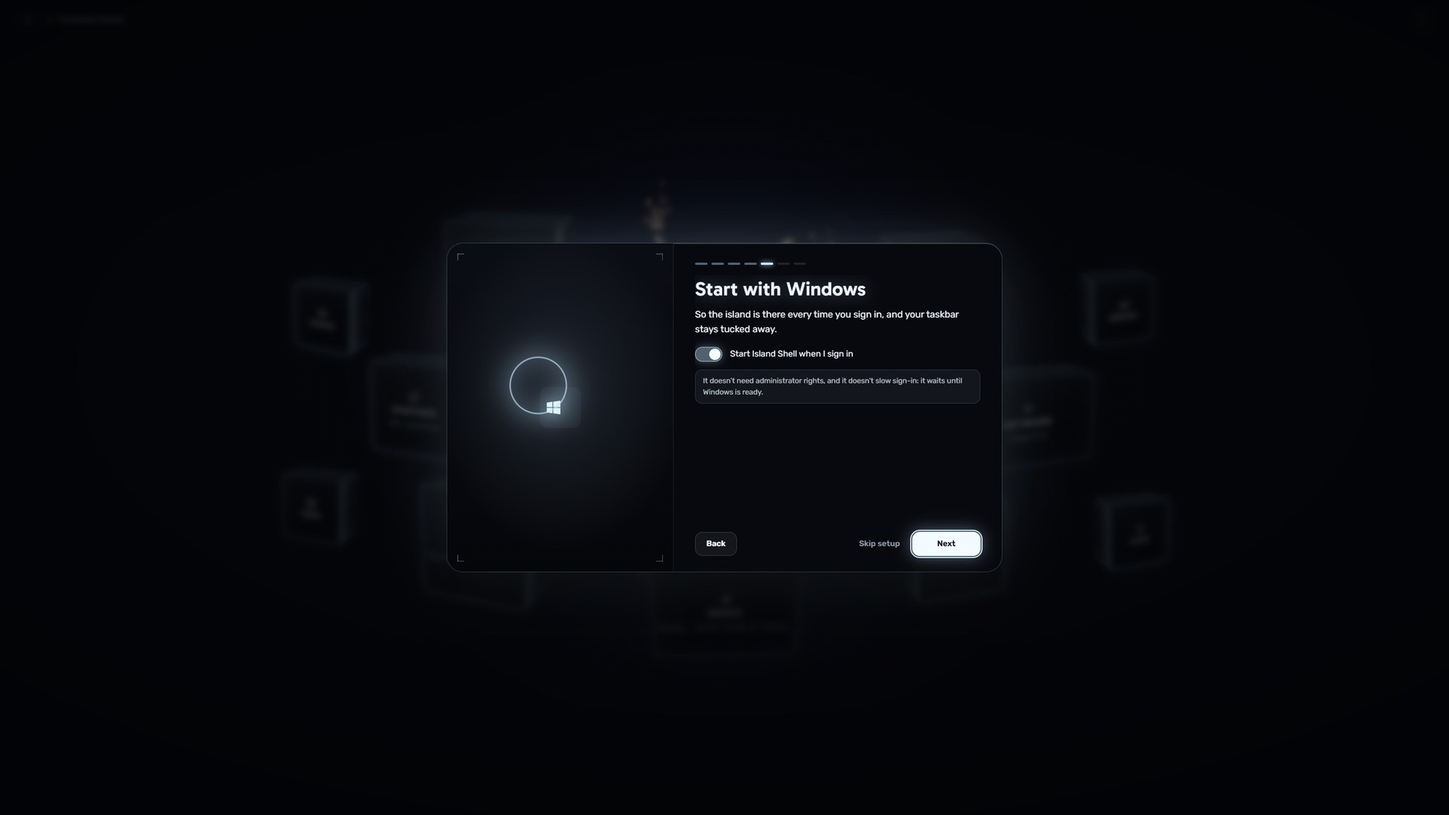
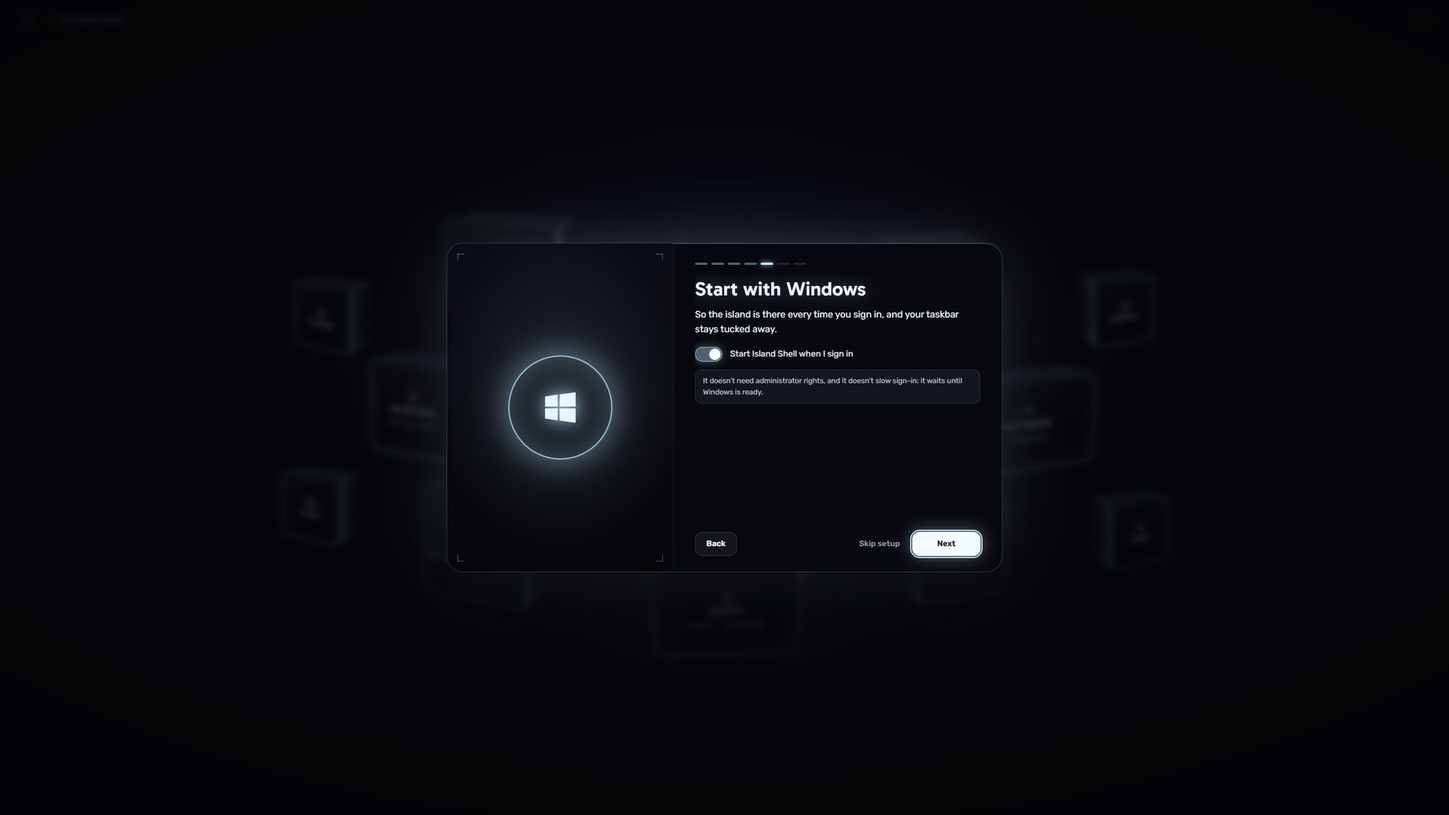
Setup guide: Windows key caps, tip rows and the ring drew wrong
Its classes clashed with the island's own (.win, .ring, .pill, .bar, .tabs,
.cover…): the Windows logo took the running-window row's size and the ring the
Stats gauge's. Every class inside the guide is now su- prefixed, and each tip is
two cells so keys inside a sentence stay inline. Screenshots retaken.

Changed region(s): [[0.3438, 0.4278, 0.4375, 0.5806], [0.4375, 0.2444, 0.4688, 0.275]]

diff --git a/src/cc.css b/src/cc.css
@@ -606,7 +606,7 @@ textarea.cal-in { height: auto; padding: 10px 12px; line-height: 1.45; resize: v
 /* ---------- first-run setup guide (setup.js) ---------- */
 .su-wrap { position: absolute; inset: 0; z-index: 30; display: grid; place-items: center; padding: 24px; background: radial-gradient(70% 60% at 50% 45%, rgba(5, 6, 10, .55), rgba(2, 3, 5, .92)); backdrop-filter: blur(6px); animation: su-in .45s ease; }
 .su-wrap[hidden] { display: none; }
-.su-wrap.out { animation: su-out .26s ease forwards; }
+.su-wrap.su-out { animation: su-out .26s ease forwards; }
 @keyframes su-in { from { opacity: 0; } }
 @keyframes su-out { to { opacity: 0; } }
 .su-card-main { width: min(980px, 100%); min-height: min(580px, 92vh); display: grid; grid-template-columns: minmax(0, 400px) minmax(0, 1fr); border-radius: 28px; overflow: hidden; background: #08090e; box-shadow: 0 0 0 1px rgba(var(--glow), .2), inset 0 1px 0 rgba(var(--glow), .25), 0 60px 140px -40px rgba(0, 0, 0, .95), 0 0 120px -40px rgba(var(--glow), .45); animation: su-card .55s var(--spring); }
@@ -616,19 +616,20 @@ textarea.cal-in { height: auto; padding: 10px 12px; line-height: 1.45; resize: v
 .su-body { display: grid; grid-template-rows: auto minmax(0, 1fr) auto; gap: 18px; padding: 34px 38px 28px; }
 .su-dots { display: flex; gap: 7px; }
 .su-dots i { width: 22px; height: 4px; border-radius: 2px; background: rgba(255, 255, 255, .1); transition: background .3s, box-shadow .3s; }
-.su-dots i.past { background: rgba(var(--glow), .4); }
-.su-dots i.on { background: #c9e9ff; box-shadow: 0 0 10px rgba(var(--glow), .9); }
+.su-dots i.su-past { background: rgba(var(--glow), .4); }
+.su-dots i.su-on { background: #c9e9ff; box-shadow: 0 0 10px rgba(var(--glow), .9); }
 .su-text { min-height: 0; overflow-y: auto; animation: su-text .4s ease; scrollbar-width: thin; }
 @keyframes su-text { from { opacity: 0; transform: translateX(10px); } }
 .su-text h2 { margin: 6px 0 14px; font: 600 34px/1.1 var(--f-display); letter-spacing: .01em; text-shadow: 0 0 30px rgba(var(--glow), .35); }
 .su-text p { margin: 0 0 12px; color: #c4cfda; font-size: 14.5px; line-height: 1.55; }
-.su-text p.lead { color: #eef6ff; font-size: 16.5px; }
-.su-text p.note { margin-top: 14px; padding: 10px 14px; border-radius: 12px; background: rgba(var(--glow), .06); box-shadow: inset 0 0 0 1px rgba(var(--glow), .14); color: #b8c3cf; font-size: 13px; }
+.su-text p.su-lead { color: #eef6ff; font-size: 16.5px; }
+.su-text p.su-note { margin-top: 14px; padding: 10px 14px; border-radius: 12px; background: rgba(var(--glow), .06); box-shadow: inset 0 0 0 1px rgba(var(--glow), .14); color: #b8c3cf; font-size: 13px; }
 .su-text kbd { display: inline-flex; align-items: center; gap: 5px; padding: 3px 8px; border-radius: 7px; background: linear-gradient(180deg, #1a1e28, #10131a); box-shadow: inset 0 0 0 1px rgba(var(--glow), .25), 0 2px 0 rgba(0, 0, 0, .6); color: #eef6ff; font: 600 12px/1.2 var(--f-body); white-space: nowrap; }
-.su-text kbd .win { width: 11px; height: 11px; fill: #c9e9ff; }
+.su-text kbd .su-win { display: block; flex: none; width: 11px; height: 11px; fill: #c9e9ff; }
+.su-text p kbd, .su-tips .su-tipd kbd { margin: 0 2px; vertical-align: 1px; }
 .su-tips { margin: 6px 0 0; padding: 0; list-style: none; display: grid; gap: 12px; }
 .su-tips li { display: grid; grid-template-columns: 112px minmax(0, 1fr); align-items: center; gap: 14px; color: #c4cfda; font-size: 14px; line-height: 1.45; }
-.su-tips li > span { justify-self: start; }
+.su-tips li > .su-k { justify-self: start; }
 .su-choice { display: grid; grid-template-columns: 1fr 1fr; gap: 10px; margin: 14px 0 0; }
 .su-choice button { display: grid; gap: 4px; padding: 14px 16px; border: 0; border-radius: 14px; background: rgba(255, 255, 255, .03); box-shadow: inset 0 0 0 1px rgba(var(--glow), .14); color: #c4cfda; text-align: left; cursor: pointer; transition: background .15s, box-shadow .2s; }
 .su-choice button b { color: #eef6ff; font: 600 15px/1 var(--f-display); }
@@ -644,67 +645,67 @@ textarea.cal-in { height: auto; padding: 10px 12px; line-height: 1.45; resize: v
 .su-toggle input:focus-visible + i { outline: 2px solid #c9e9ff; outline-offset: 2px; }
 .su-cards { display: grid; gap: 8px; }
 .su-card { display: grid; grid-template-columns: 36px minmax(0, 1fr) auto; align-items: center; gap: 12px; padding: 10px 12px; border-radius: 14px; background: rgba(255, 255, 255, .025); box-shadow: inset 0 0 0 1px rgba(var(--glow), .1); }
-.su-card .ic { width: 36px; height: 36px; display: grid; place-items: center; border-radius: 10px; background: rgba(var(--glow), .1); color: #c9e9ff; }
-.su-card .ic svg.i { width: 18px; height: 18px; }
-.su-card .tx { display: grid; gap: 2px; min-width: 0; }
-.su-card .tx b { color: #eef6ff; font: 600 14px/1.2 var(--f-display); }
-.su-card .tx small { color: var(--muted); font-size: 12px; line-height: 1.35; }
-.su-card .st { padding: 5px 10px; border-radius: 999px; background: rgba(155, 227, 138, .14); color: #c6f0b8; font: 700 10.5px/1 var(--f-body); letter-spacing: .06em; text-transform: uppercase; white-space: nowrap; }
+.su-card .su-cic { width: 36px; height: 36px; display: grid; place-items: center; border-radius: 10px; background: rgba(var(--glow), .1); color: #c9e9ff; }
+.su-card .su-cic svg.i { width: 18px; height: 18px; }
+.su-card .su-ctx { display: grid; gap: 2px; min-width: 0; }
+.su-card .su-ctx b { color: #eef6ff; font: 600 14px/1.2 var(--f-display); }
+.su-card .su-ctx small { color: var(--muted); font-size: 12px; line-height: 1.35; }
+.su-card .su-cst { padding: 5px 10px; border-radius: 999px; background: rgba(155, 227, 138, .14); color: #c6f0b8; font: 700 10.5px/1 var(--f-body); letter-spacing: .06em; text-transform: uppercase; white-space: nowrap; }
 .su-foot { display: flex; align-items: center; gap: 10px; }
-.su-foot .grow { flex: 1; }
+.su-foot .su-grow { flex: 1; }
 .su-btn { height: 42px; padding: 0 20px; border: 0; border-radius: 13px; font: 600 14px/1 var(--f-body); cursor: pointer; transition: background .15s, box-shadow .2s, transform .15s; }
-.su-btn.primary { min-width: 120px; background: #f4fbff; color: #04070b; box-shadow: 0 0 0 1px rgba(255, 255, 255, .5), 0 0 30px rgba(var(--glow), .5); }
-.su-btn.primary:hover { transform: translateY(-1px); box-shadow: 0 0 0 1px #fff, 0 0 44px rgba(var(--glow), .75); }
-.su-btn.ghost { background: rgba(255, 255, 255, .05); color: #eef6ff; box-shadow: inset 0 0 0 1px rgba(var(--glow), .18); }
-.su-btn.ghost:hover { background: rgba(var(--glow), .12); }
-.su-btn.link { background: none; color: var(--muted); padding: 0 12px; }
-.su-btn.link:hover { color: #eef6ff; }
+.su-btn.su-primary { min-width: 120px; background: #f4fbff; color: #04070b; box-shadow: 0 0 0 1px rgba(255, 255, 255, .5), 0 0 30px rgba(var(--glow), .5); }
+.su-btn.su-primary:hover { transform: translateY(-1px); box-shadow: 0 0 0 1px #fff, 0 0 44px rgba(var(--glow), .75); }
+.su-btn.su-ghost { background: rgba(255, 255, 255, .05); color: #eef6ff; box-shadow: inset 0 0 0 1px rgba(var(--glow), .18); }
+.su-btn.su-ghost:hover { background: rgba(var(--glow), .12); }
+.su-btn.su-link { background: none; color: var(--muted); padding: 0 12px; }
+.su-btn.su-link:hover { color: #eef6ff; }
 .su-card .su-btn { height: 32px; padding: 0 14px; font-size: 12.5px; border-radius: 10px; }
 .su-btn:focus-visible { outline: 2px solid #c9e9ff; outline-offset: 2px; }
 /* illustrations */
 .su-eclipse { position: relative; width: 210px; height: 210px; }
 .su-eclipse i { position: absolute; inset: -46px; border-radius: 50%; background: conic-gradient(from 0deg, rgba(var(--glow), 0), rgba(var(--glow), .55), rgba(var(--glow), .05), rgba(245, 181, 107, .35), rgba(var(--glow), .5), rgba(var(--glow), 0)); filter: blur(22px); animation: su-spin 14s linear infinite; }
 .su-eclipse b { position: absolute; inset: 0; border-radius: 50%; background: #020306; box-shadow: 0 0 0 2px rgba(240, 250, 255, .95), 0 0 30px 6px rgba(var(--glow), .85), 0 0 90px 20px rgba(var(--glow), .35), inset 0 0 40px rgba(var(--glow), .15); }
-.su-eclipse.done b::after { content: ""; position: absolute; inset: 72px; background: #e6f5ff; -webkit-mask: var(--sigil) center / contain no-repeat; mask: var(--sigil) center / contain no-repeat; filter: drop-shadow(0 0 10px rgba(var(--glow), .9)); }
+.su-eclipse.su-done b::after { content: ""; position: absolute; inset: 72px; background: #e6f5ff; -webkit-mask: var(--sigil) center / contain no-repeat; mask: var(--sigil) center / contain no-repeat; filter: drop-shadow(0 0 10px rgba(var(--glow), .9)); }
 @keyframes su-spin { to { transform: rotate(360deg); } }
 .su-desk { position: relative; width: 300px; height: 230px; border-radius: 16px; background: linear-gradient(160deg, #1a2030, #0b0e15 60%); box-shadow: inset 0 0 0 1px rgba(var(--glow), .14); }
 .su-pill { position: absolute; left: 50%; top: 12px; transform: translateX(-50%); display: flex; align-items: center; gap: 10px; height: 26px; padding: 0 12px; border-radius: 13px; background: #050609; box-shadow: 0 0 0 1px rgba(var(--glow), .3), 0 0 18px rgba(var(--glow), .4); color: #eef6ff; font: 600 11px/1 var(--f-mono); animation: su-pill 4s ease-in-out infinite; }
-.su-pill .d { width: 6px; height: 6px; border-radius: 50%; background: #9be38a; box-shadow: 0 0 6px #9be38a; }
-.su-pill .eq { display: flex; gap: 2px; align-items: flex-end; height: 10px; }
-.su-pill .eq i { width: 2px; background: #c9e9ff; animation: su-eq 1s ease-in-out infinite; }
-.su-pill .eq i:nth-child(2) { animation-delay: .2s; } .su-pill .eq i:nth-child(3) { animation-delay: .45s; } .su-pill .eq i:nth-child(4) { animation-delay: .7s; }
+.su-pill .su-pd { width: 6px; height: 6px; border-radius: 50%; background: #9be38a; box-shadow: 0 0 6px #9be38a; }
+.su-pill .su-peq { display: flex; gap: 2px; align-items: flex-end; height: 10px; }
+.su-pill .su-peq i { width: 2px; background: #c9e9ff; animation: su-eq 1s ease-in-out infinite; }
+.su-pill .su-peq i:nth-child(2) { animation-delay: .2s; } .su-pill .su-peq i:nth-child(3) { animation-delay: .45s; } .su-pill .su-peq i:nth-child(4) { animation-delay: .7s; }
 @keyframes su-eq { 0%, 100% { height: 3px; } 50% { height: 10px; } }
 .su-panel { position: absolute; left: 50%; top: 46px; width: 220px; transform: translateX(-50%); padding: 12px; border-radius: 16px; background: rgba(6, 7, 11, .97); box-shadow: 0 0 0 1px rgba(var(--glow), .25), 0 20px 40px -12px rgba(0, 0, 0, .9), 0 0 30px -8px rgba(var(--glow), .5); animation: su-panel 4s ease-in-out infinite; transform-origin: 50% 0; }
-.su-panel .tabs { display: flex; gap: 5px; margin-bottom: 10px; }
-.su-panel .tabs i { flex: 1; height: 6px; border-radius: 3px; background: rgba(255, 255, 255, .1); }
-.su-panel .tabs i.on { background: #c9e9ff; box-shadow: 0 0 6px rgba(var(--glow), .8); }
-.su-panel .cover { width: 64px; height: 64px; float: left; margin-right: 10px; border-radius: 10px; background: linear-gradient(135deg, #f5b56b, #b9a7ff 60%, #7fdcff); box-shadow: 0 0 18px rgba(185, 167, 255, .5); }
-.su-panel .lines { display: grid; gap: 7px; padding-top: 6px; }
-.su-panel .lines i { height: 6px; border-radius: 3px; background: rgba(255, 255, 255, .14); }
-.su-panel .lines i:nth-child(2) { width: 70%; } .su-panel .lines i:nth-child(3) { width: 45%; background: rgba(var(--glow), .4); }
+.su-panel .su-ptabs { display: flex; gap: 5px; margin-bottom: 10px; }
+.su-panel .su-ptabs i { flex: 1; height: 6px; border-radius: 3px; background: rgba(255, 255, 255, .1); }
+.su-panel .su-ptabs i.su-on { background: #c9e9ff; box-shadow: 0 0 6px rgba(var(--glow), .8); }
+.su-panel .su-pcover { width: 64px; height: 64px; float: left; margin-right: 10px; border-radius: 10px; background: linear-gradient(135deg, #f5b56b, #b9a7ff 60%, #7fdcff); box-shadow: 0 0 18px rgba(185, 167, 255, .5); }
+.su-panel .su-plines { display: grid; gap: 7px; padding-top: 6px; }
+.su-panel .su-plines i { height: 6px; border-radius: 3px; background: rgba(255, 255, 255, .14); }
+.su-panel .su-plines i:nth-child(2) { width: 70%; } .su-panel .su-plines i:nth-child(3) { width: 45%; background: rgba(var(--glow), .4); }
 @keyframes su-panel { 0%, 18% { opacity: 0; transform: translateX(-50%) scale(.6, .2); } 30%, 80% { opacity: 1; transform: translateX(-50%) scale(1); } 92%, 100% { opacity: 0; transform: translateX(-50%) scale(.6, .2); } }
 @keyframes su-pill { 0%, 18%, 92%, 100% { box-shadow: 0 0 0 1px rgba(var(--glow), .3), 0 0 18px rgba(var(--glow), .4); } 24% { box-shadow: 0 0 0 2px #fff, 0 0 30px rgba(var(--glow), .9); } }
 .su-cursor { position: absolute; left: 176px; top: 22px; width: 12px; height: 16px; background: #f4fbff; clip-path: polygon(0 0, 0 100%, 30% 75%, 55% 100%, 70% 92%, 45% 68%, 85% 68%); filter: drop-shadow(0 2px 3px rgba(0, 0, 0, .8)); animation: su-cursor 4s ease-in-out infinite; }
 @keyframes su-cursor { 0% { transform: translate(40px, 80px); } 18%, 85% { transform: translate(0, 0); } 100% { transform: translate(40px, 80px); } }
 .su-mini { position: relative; width: 300px; height: 260px; }
-.su-mini .core { position: absolute; left: 50%; top: 50%; width: 120px; height: 120px; margin: -60px 0 0 -60px; display: grid; place-content: center; justify-items: center; gap: 4px; border-radius: 50%; background: #020306; box-shadow: 0 0 0 2px rgba(240, 250, 255, .9), 0 0 26px 4px rgba(var(--glow), .8), 0 0 70px 14px rgba(var(--glow), .3); color: #eef6ff; font: 300 26px/1 var(--f-mono); }
-.su-mini .core small { padding: 3px 8px; border-radius: 6px; background: rgba(255, 255, 255, .06); color: var(--muted); font: 500 8px/1 var(--f-body); }
-.su-mini .cube { position: absolute; width: 38px; height: 38px; border-radius: 7px; background: linear-gradient(145deg, rgba(var(--glow), .18), rgba(10, 12, 18, .9)); box-shadow: inset 0 0 0 1px rgba(var(--glow), .35), 0 0 14px -2px rgba(var(--glow), .5); transform: rotateX(-14deg) rotateY(-24deg); animation: su-float 5s ease-in-out infinite; }
-.su-mini .c0 { left: 16px; top: 30px; } .su-mini .c1 { left: 6px; top: 140px; animation-delay: -1s; } .su-mini .c2 { right: 18px; top: 26px; animation-delay: -2s; } .su-mini .c3 { right: 8px; top: 150px; animation-delay: -3s; } .su-mini .c4 { left: 70px; bottom: 6px; animation-delay: -1.5s; } .su-mini .c5 { right: 74px; bottom: 2px; animation-delay: -2.5s; }
+.su-mini .su-core { position: absolute; left: 50%; top: 50%; width: 120px; height: 120px; margin: -60px 0 0 -60px; display: grid; place-content: center; justify-items: center; gap: 4px; border-radius: 50%; background: #020306; box-shadow: 0 0 0 2px rgba(240, 250, 255, .9), 0 0 26px 4px rgba(var(--glow), .8), 0 0 70px 14px rgba(var(--glow), .3); color: #eef6ff; font: 300 26px/1 var(--f-mono); }
+.su-mini .su-core small { padding: 3px 8px; border-radius: 6px; background: rgba(255, 255, 255, .06); color: var(--muted); font: 500 8px/1 var(--f-body); }
+.su-mini .su-cube { position: absolute; width: 38px; height: 38px; border-radius: 7px; background: linear-gradient(145deg, rgba(var(--glow), .18), rgba(10, 12, 18, .9)); box-shadow: inset 0 0 0 1px rgba(var(--glow), .35), 0 0 14px -2px rgba(var(--glow), .5); transform: rotateX(-14deg) rotateY(-24deg); animation: su-float 5s ease-in-out infinite; }
+.su-mini .su-c0 { left: 16px; top: 30px; } .su-mini .su-c1 { left: 6px; top: 140px; animation-delay: -1s; } .su-mini .su-c2 { right: 18px; top: 26px; animation-delay: -2s; } .su-mini .su-c3 { right: 8px; top: 150px; animation-delay: -3s; } .su-mini .su-c4 { left: 70px; bottom: 6px; animation-delay: -1.5s; } .su-mini .su-c5 { right: 74px; bottom: 2px; animation-delay: -2.5s; }
 @keyframes su-float { 50% { translate: 0 -8px; } }
 .su-looks { display: grid; gap: 18px; }
-.su-looks .lk { position: relative; width: 260px; height: 92px; border-radius: 12px; background: linear-gradient(160deg, #1a2030, #0b0e15 60%); box-shadow: inset 0 0 0 1px rgba(var(--glow), .14); opacity: .45; transition: opacity .25s, box-shadow .25s; }
-.su-looks .lk.on { opacity: 1; box-shadow: inset 0 0 0 1.5px #c9e9ff, 0 0 26px -6px rgba(var(--glow), .7); }
-.su-looks .pill { position: absolute; left: 50%; top: 10px; width: 90px; height: 18px; margin-left: -45px; border-radius: 9px; background: #050609; box-shadow: 0 0 0 1px rgba(var(--glow), .35), 0 0 12px rgba(var(--glow), .4); }
-.su-looks .bar { position: absolute; left: 0; right: 0; top: 0; height: 16px; border-radius: 12px 12px 0 0; background: rgba(240, 246, 252, .85); box-shadow: 0 1px 0 rgba(var(--glow), .3); }
+.su-looks .su-lk { position: relative; width: 260px; height: 92px; border-radius: 12px; background: linear-gradient(160deg, #1a2030, #0b0e15 60%); box-shadow: inset 0 0 0 1px rgba(var(--glow), .14); opacity: .45; transition: opacity .25s, box-shadow .25s; }
+.su-looks .su-lk.su-on { opacity: 1; box-shadow: inset 0 0 0 1.5px #c9e9ff, 0 0 26px -6px rgba(var(--glow), .7); }
+.su-looks .su-lk-pillshape { position: absolute; left: 50%; top: 10px; width: 90px; height: 18px; margin-left: -45px; border-radius: 9px; background: #050609; box-shadow: 0 0 0 1px rgba(var(--glow), .35), 0 0 12px rgba(var(--glow), .4); }
+.su-looks .su-lk-strip { position: absolute; left: 0; right: 0; top: 0; height: 16px; border-radius: 12px 12px 0 0; background: rgba(240, 246, 252, .85); box-shadow: 0 1px 0 rgba(var(--glow), .3); }
 .su-power { position: relative; width: 170px; height: 170px; display: grid; place-items: center; }
-.su-power .win { width: 72px; height: 72px; fill: #e6f5ff; filter: drop-shadow(0 0 16px rgba(var(--glow), .9)); }
-.su-power .ring { position: absolute; inset: 0; border-radius: 50%; box-shadow: 0 0 0 2px rgba(var(--glow), .5), 0 0 40px rgba(var(--glow), .4), inset 0 0 40px rgba(var(--glow), .2); animation: su-ring 2.6s ease-in-out infinite; }
+.su-power .su-win { position: relative; display: block; width: 72px; height: 72px; fill: #e6f5ff; filter: drop-shadow(0 0 16px rgba(var(--glow), .9)); }
+.su-power .su-ring { position: absolute; inset: 0; border-radius: 50%; box-shadow: 0 0 0 2px rgba(var(--glow), .5), 0 0 40px rgba(var(--glow), .4), inset 0 0 40px rgba(var(--glow), .2); animation: su-ring 2.6s ease-in-out infinite; }
 @keyframes su-ring { 50% { transform: scale(1.06); box-shadow: 0 0 0 2px rgba(var(--glow), .8), 0 0 60px rgba(var(--glow), .6), inset 0 0 50px rgba(var(--glow), .3); } }
 .su-orbit { position: relative; width: 260px; height: 260px; animation: su-spin 40s linear infinite; }
 .su-orbit::before { content: ""; position: absolute; inset: 20px; border-radius: 50%; border: 1px dashed rgba(var(--glow), .25); }
-.su-orbit .me { position: absolute; left: 50%; top: 50%; width: 60px; height: 60px; margin: -30px 0 0 -30px; border-radius: 50%; background: #020306; box-shadow: 0 0 0 2px rgba(240, 250, 255, .9), 0 0 24px 4px rgba(var(--glow), .8); }
-.su-orbit .o { position: absolute; left: 50%; top: 50%; width: 42px; height: 42px; margin: -21px 0 0 -21px; display: grid; place-items: center; border-radius: 12px; background: #0c0f16; box-shadow: inset 0 0 0 1px rgba(var(--glow), .35), 0 0 14px -2px rgba(var(--glow), .6); color: #c9e9ff; }
-.su-orbit .o svg.i { width: 19px; height: 19px; animation: su-spin 40s linear infinite reverse; }
-.su-orbit .o0 { transform: rotate(0deg) translate(110px) rotate(0deg); } .su-orbit .o1 { transform: rotate(60deg) translate(110px) rotate(-60deg); } .su-orbit .o2 { transform: rotate(120deg) translate(110px) rotate(-120deg); } .su-orbit .o3 { transform: rotate(180deg) translate(110px) rotate(-180deg); } .su-orbit .o4 { transform: rotate(240deg) translate(110px) rotate(-240deg); } .su-orbit .o5 { transform: rotate(300deg) translate(110px) rotate(-300deg); }
+.su-orbit .su-me { position: absolute; left: 50%; top: 50%; width: 60px; height: 60px; margin: -30px 0 0 -30px; border-radius: 50%; background: #020306; box-shadow: 0 0 0 2px rgba(240, 250, 255, .9), 0 0 24px 4px rgba(var(--glow), .8); }
+.su-orbit .su-o { position: absolute; left: 50%; top: 50%; width: 42px; height: 42px; margin: -21px 0 0 -21px; display: grid; place-items: center; border-radius: 12px; background: #0c0f16; box-shadow: inset 0 0 0 1px rgba(var(--glow), .35), 0 0 14px -2px rgba(var(--glow), .6); color: #c9e9ff; }
+.su-orbit .su-o svg.i { width: 19px; height: 19px; animation: su-spin 40s linear infinite reverse; }
+.su-orbit .su-o0 { transform: rotate(0deg) translate(110px) rotate(0deg); } .su-orbit .su-o1 { transform: rotate(60deg) translate(110px) rotate(-60deg); } .su-orbit .su-o2 { transform: rotate(120deg) translate(110px) rotate(-120deg); } .su-orbit .su-o3 { transform: rotate(180deg) translate(110px) rotate(-180deg); } .su-orbit .su-o4 { transform: rotate(240deg) translate(110px) rotate(-240deg); } .su-orbit .su-o5 { transform: rotate(300deg) translate(110px) rotate(-300deg); }
 @media (max-width: 860px) { .su-card-main { grid-template-columns: 1fr; } .su-art { min-height: 220px; border-right: 0; border-bottom: 1px solid rgba(var(--glow), .1); } }

diff --git a/src/setup.js b/src/setup.js
@@ -13,20 +13,22 @@ export function createSetup({ root, invoke, store, ic, S, setDark, openTab, getG
   let step = 0, layout = 'island', dark = true, auto = true, isOpen = false, onClose = null;
 
   const keycap = k => `<kbd>${k}</kbd>`;
-  const win = `<svg viewBox="0 0 24 24" class="win" aria-hidden="true"><path d="M3 5.5 10.5 4.4v7.1H3zM11.5 4.3 21 3v8.5h-9.5zM3 12.5h7.5v7.1L3 18.5zM11.5 12.5H21V21l-9.5-1.3z"/></svg>`;
+  /** One tip: the key on the left, what it does on the right (one grid cell each). */
+  const tip = (key, text) => `<li><span class="su-k">${keycap(key)}</span><span class="su-tipd">${text}</span></li>`;
+  const win = `<svg viewBox="0 0 24 24" class="su-win" aria-hidden="true"><path d="M3 5.5 10.5 4.4v7.1H3zM11.5 4.3 21 3v8.5h-9.5zM3 12.5h7.5v7.1L3 18.5zM11.5 12.5H21V21l-9.5-1.3z"/></svg>`;
   const art = {
     welcome: `<div class="su-eclipse"><i></i><b></b></div>`,
-    island: `<div class="su-desk"><div class="su-pill"><span class="d"></span><span class="t">9:41</span><span class="eq"><i></i><i></i><i></i><i></i></span></div><div class="su-panel"><div class="tabs"><i></i><i class="on"></i><i></i><i></i><i></i></div><div class="cover"></div><div class="lines"><i></i><i></i><i></i></div></div><div class="su-cursor"></div></div>`,
-    cc: `<div class="su-mini"><div class="core">9:41<small>Search anything</small></div>${['', '', '', '', '', ''].map((_, i) => `<span class="cube c${i}"></span>`).join('')}</div>`,
-    look: `<div class="su-looks"><div class="lk island${layout === 'island' ? ' on' : ''}"><span class="pill"></span></div><div class="lk bar${layout === 'bar' ? ' on' : ''}"><span class="bar"></span></div></div>`,
-    start: `<div class="su-power">${win}<span class="ring"></span></div>`,
-    connect: `<div class="su-orbit"><span class="me"></span>${['note', 'gamepad', 'chat', 'cap', 'star', 'calendar'].map((n, i) => `<span class="o o${i}">${ic(n)}</span>`).join('')}</div>`,
-    done: `<div class="su-eclipse done"><i></i><b></b></div>`
+    island: `<div class="su-desk"><div class="su-pill"><span class="su-pd"></span><span class="su-pt">9:41</span><span class="su-peq"><i></i><i></i><i></i><i></i></span></div><div class="su-panel"><div class="su-ptabs"><i></i><i class="su-on"></i><i></i><i></i><i></i></div><div class="su-pcover"></div><div class="su-plines"><i></i><i></i><i></i></div></div><div class="su-cursor"></div></div>`,
+    cc: `<div class="su-mini"><div class="su-core">9:41<small>Search anything</small></div>${['', '', '', '', '', ''].map((_, i) => `<span class="su-cube su-c${i}"></span>`).join('')}</div>`,
+    look: `<div class="su-looks"><div class="su-lk su-lk-island${layout === 'island' ? ' su-on' : ''}"><span class="su-lk-pillshape"></span></div><div class="su-lk su-lk-bar${layout === 'bar' ? ' su-on' : ''}"><span class="su-lk-strip"></span></div></div>`,
+    start: `<div class="su-power">${win}<span class="su-ring"></span></div>`,
+    connect: `<div class="su-orbit"><span class="su-me"></span>${['note', 'gamepad', 'chat', 'cap', 'star', 'calendar'].map((n, i) => `<span class="su-o su-o${i}">${ic(n)}</span>`).join('')}</div>`,
+    done: `<div class="su-eclipse su-done"><i></i><b></b></div>`
   };
 
   function connectCards() {
     const games = getGames() || [], dc = S.dc || {}, cv = S.cv || {};
-    const card = (icn, title, sub, state, tab) => `<div class="su-card${state ? ' ok' : ''}"><span class="ic">${ic(icn)}</span><span class="tx"><b>${title}</b><small>${sub}</small></span>${state ? `<span class="st">${state}</span>` : `<button class="su-btn ghost" type="button" data-su-tab="${tab}">Set up</button>`}</div>`;
+    const card = (icn, title, sub, state, tab) => `<div class="su-card${state ? ' su-ok' : ''}"><span class="su-cic">${ic(icn)}</span><span class="su-ctx"><b>${title}</b><small>${sub}</small></span>${state ? `<span class="su-cst">${state}</span>` : `<button class="su-btn su-ghost" type="button" data-su-tab="${tab}">Set up</button>`}</div>`;
     return card('note', 'Music', 'Apple Music, Spotify, your browser: anything Windows knows is playing. Lyrics come along.', S.media ? 'Playing now' : 'Automatic')
       + card('gamepad', 'Steam', games.length ? `${games.length} games found: covers, playtime and Play from the Games cube.` : 'Install Steam and your games show up by themselves.', games.length ? 'Ready' : '')
       + card('chat', 'Discord', 'Your call (mute, deafen, who’s talking) and notifications on the island. Needs the Discord app and a free Discord application, about two minutes.', dc.authorized ? 'Connected' : '', 'discord')
@@ -37,20 +39,20 @@ export function createSetup({ root, invoke, store, ic, S, setDark, openTab, getG
 
   function body() {
     switch (STEPS[step]) {
-      case 'welcome': return `<h2>Welcome to Island Shell</h2><p class="lead">Your taskbar becomes an island at the top of the screen: music, calls, sound, your day and your PC, one tap away.</p><p>This takes about a minute. Everything here can be changed later.</p>`;
-      case 'island': return `<h2>The island</h2><p class="lead">It sits at the top of your screen and grows into a panel when you need it.</p>
-        <ul class="su-tips"><li><span>${keycap(win + ' Win')}</span>Tap the Windows key to open it; tap again (or Esc) to close.</li><li><span>${keycap('Hover')}</span>Point at it for a peek; click a tab to go straight there.</li><li><span>${keycap(win + ' + A')}</span>Win with A, G or V jumps to Audio, Games and Clipboard; N or W to Today.</li></ul>
-        <p class="note">The Windows taskbar is hidden while Island Shell runs, and comes back when you quit (the island’s Power tab, or its tray icon).</p>`;
-      case 'cc': return `<h2>The Command Center</h2><p class="lead">${keycap(win + ' + Space')} opens it: one search for apps, windows, files, games, settings and commands, with every section as a cube.</p>
-        <ul class="su-tips"><li><span>${keycap('Type')}</span>Search right away; Enter opens, Tab switches kinds, ${keycap('&gt;')} for commands, ${keycap('=')} for math.</li><li><span>${keycap('Cubes')}</span>Each opens full size: your Steam library, Apps, Music with lyrics, a calendar, Discord…</li><li><span>${keycap('Stats')}</span>A full Task Manager: processes, performance, sensors, disk space, benchmarks.</li></ul>`;
-      case 'look': return `<h2>Pick your look</h2><p class="lead">The island floats at the top center. The bar is a full-width strip with the clock, your apps and the tray.</p>
+      case 'welcome': return `<h2>Welcome to Island Shell</h2><p class="su-lead">Your taskbar becomes an island at the top of the screen: music, calls, sound, your day and your PC, one tap away.</p><p>This takes about a minute. Everything here can be changed later.</p>`;
+      case 'island': return `<h2>The island</h2><p class="su-lead">It sits at the top of your screen and grows into a panel when you need it.</p>
+        <ul class="su-tips">${tip(win + ' Win', 'Tap the Windows key to open it; tap again (or Esc) to close.')}${tip('Hover', 'Point at it for a peek; click a tab to go straight there.')}${tip(win + ' + A', 'Win with A, G or V jumps to Audio, Games and Clipboard; N or W to Today.')}</ul>
+        <p class="su-note">The Windows taskbar is hidden while Island Shell runs, and comes back when you quit (the island’s Power tab, or its tray icon).</p>`;
+      case 'cc': return `<h2>The Command Center</h2><p class="su-lead">${keycap(win + ' + Space')} opens it: one search for apps, windows, files, games, settings and commands, with every section as a cube.</p>
+        <ul class="su-tips">${tip('Type', `Search right away; Enter opens, Tab switches kinds, ${keycap('&gt;')} for commands, ${keycap('=')} for math.`)}${tip('Cubes', 'Each opens full size: your Steam library, Apps, Music with lyrics, a calendar, Discord…')}${tip('Stats', 'A full Task Manager: processes, performance, sensors, disk space, benchmarks.')}</ul>`;
+      case 'look': return `<h2>Pick your look</h2><p class="su-lead">The island floats at the top center. The bar is a full-width strip with the clock, your apps and the tray.</p>
         <div class="su-choice" role="group" aria-label="Layout"><button type="button" data-su-layout="island" aria-pressed="${layout === 'island'}"><b>Island</b><small>A pill that grows</small></button><button type="button" data-su-layout="bar" aria-pressed="${layout === 'bar'}"><b>Bar</b><small>A strip across the top</small></button></div>
         <div class="su-choice" role="group" aria-label="Skin"><button type="button" data-su-dark="1" aria-pressed="${dark}"><b>Dark</b><small>Glowing on black</small></button><button type="button" data-su-dark="0" aria-pressed="${!dark}"><b>Light</b><small>Ink on frosted glass</small></button></div>`;
-      case 'start': return `<h2>Start with Windows</h2><p class="lead">So the island is there every time you sign in, and your taskbar stays tucked away.</p>
+      case 'start': return `<h2>Start with Windows</h2><p class="su-lead">So the island is there every time you sign in, and your taskbar stays tucked away.</p>
         <label class="su-toggle"><input type="checkbox" data-su-auto${auto ? ' checked' : ''}><i></i><span>Start Island Shell when I sign in</span></label>
-        <p class="note">It doesn’t need administrator rights, and it doesn’t slow sign-in: it waits until Windows is ready.</p>`;
-      case 'connect': return `<h2>Connect your stuff</h2><p class="lead">These work on their own or after a quick setup. All optional; they live in their tabs whenever you want them.</p><div class="su-cards">${connectCards()}</div>`;
-      case 'done': return `<h2>You’re all set</h2><p class="lead">Tap ${keycap(win + ' Win')} for the island and ${keycap(win + ' + Space')} for the Command Center.</p><p>This guide is in the Command Center’s search as “Setup guide” if you want it again.</p>${layout === 'bar' ? '<p class="note">Island Shell restarts in the bar layout when you finish (about a second).</p>' : ''}`;
+        <p class="su-note">It doesn’t need administrator rights, and it doesn’t slow sign-in: it waits until Windows is ready.</p>`;
+      case 'connect': return `<h2>Connect your stuff</h2><p class="su-lead">These work on their own or after a quick setup. All optional; they live in their tabs whenever you want them.</p><div class="su-cards">${connectCards()}</div>`;
+      case 'done': return `<h2>You’re all set</h2><p class="su-lead">Tap ${keycap(win + ' Win')} for the island and ${keycap(win + ' + Space')} for the Command Center.</p><p>This guide is in the Command Center’s search as “Setup guide” if you want it again.</p>${layout === 'bar' ? '<p class="su-note">Island Shell restarts in the bar layout when you finish (about a second).</p>' : ''}`;
     }
     return '';
   }
@@ -59,16 +61,16 @@ export function createSetup({ root, invoke, store, ic, S, setDark, openTab, getG
     const id = STEPS[step], last = step === STEPS.length - 1;
     el.innerHTML = `<div class="su-card-main" data-step="${id}">
       <div class="su-art">${art[id]}</div>
-      <div class="su-body"><div class="su-dots" aria-hidden="true">${STEPS.map((_, i) => `<i class="${i === step ? 'on' : i < step ? 'past' : ''}"></i>`).join('')}</div>
+      <div class="su-body"><div class="su-dots" aria-hidden="true">${STEPS.map((_, i) => `<i class="${i === step ? 'su-on' : i < step ? 'su-past' : ''}"></i>`).join('')}</div>
         <div class="su-text">${body()}</div>
-        <div class="su-foot">${step > 0 && !last ? '<button class="su-btn ghost" type="button" data-su="back">Back</button>' : '<span></span>'}<span class="grow"></span>${!last ? '<button class="su-btn link" type="button" data-su="skip">Skip setup</button>' : ''}<button class="su-btn primary" type="button" data-su="next">${step === 0 ? 'Let’s go' : last ? 'Finish' : 'Next'}</button></div></div></div>`;
+        <div class="su-foot">${step > 0 && !last ? '<button class="su-btn su-ghost" type="button" data-su="back">Back</button>' : '<span></span>'}<span class="su-grow"></span>${!last ? '<button class="su-btn su-link" type="button" data-su="skip">Skip setup</button>' : ''}<button class="su-btn su-primary" type="button" data-su="next">${step === 0 ? 'Let’s go' : last ? 'Finish' : 'Next'}</button></div></div></div>`;
     const b = el.querySelector('[data-su="next"]'); if (b) setTimeout(() => b.focus({ preventScroll: true }), 30);
   }
 
   async function finish(thenTab) {
     store.set('setupDone', true);
-    isOpen = false; el.classList.add('out');
-    setTimeout(() => { el.hidden = true; el.classList.remove('out'); }, 260);
+    isOpen = false; el.classList.add('su-out');
+    setTimeout(() => { el.hidden = true; el.classList.remove('su-out'); }, 260);
     try { await invoke('autostart_set', { on: auto }); } catch (e) {}
     if (onClose) onClose(thenTab);
     if (layout === 'bar' && S.style !== 'bar') { try { await invoke('set_style', { style: 'bar' }); } catch (e) {} }
